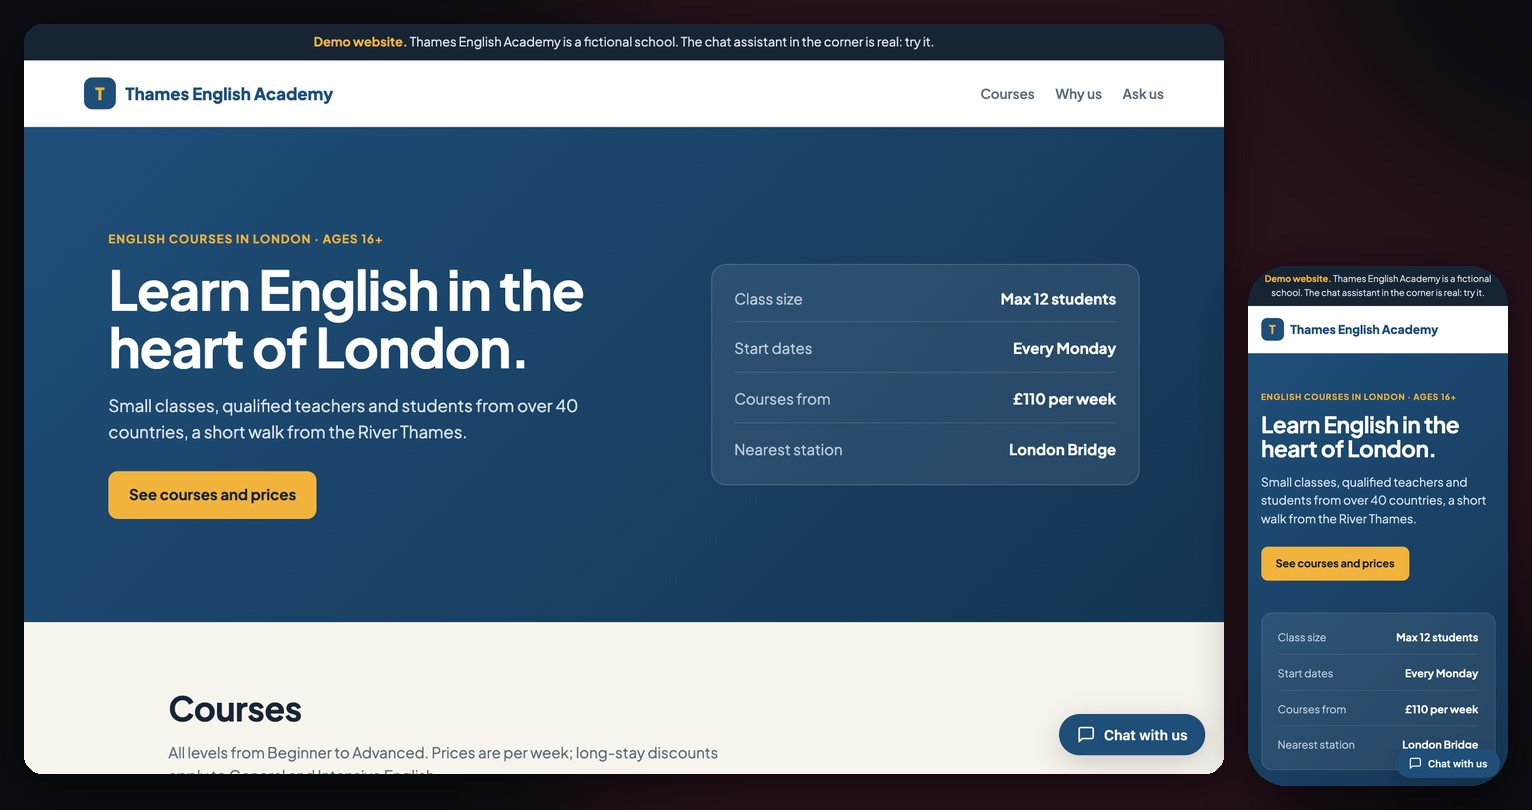
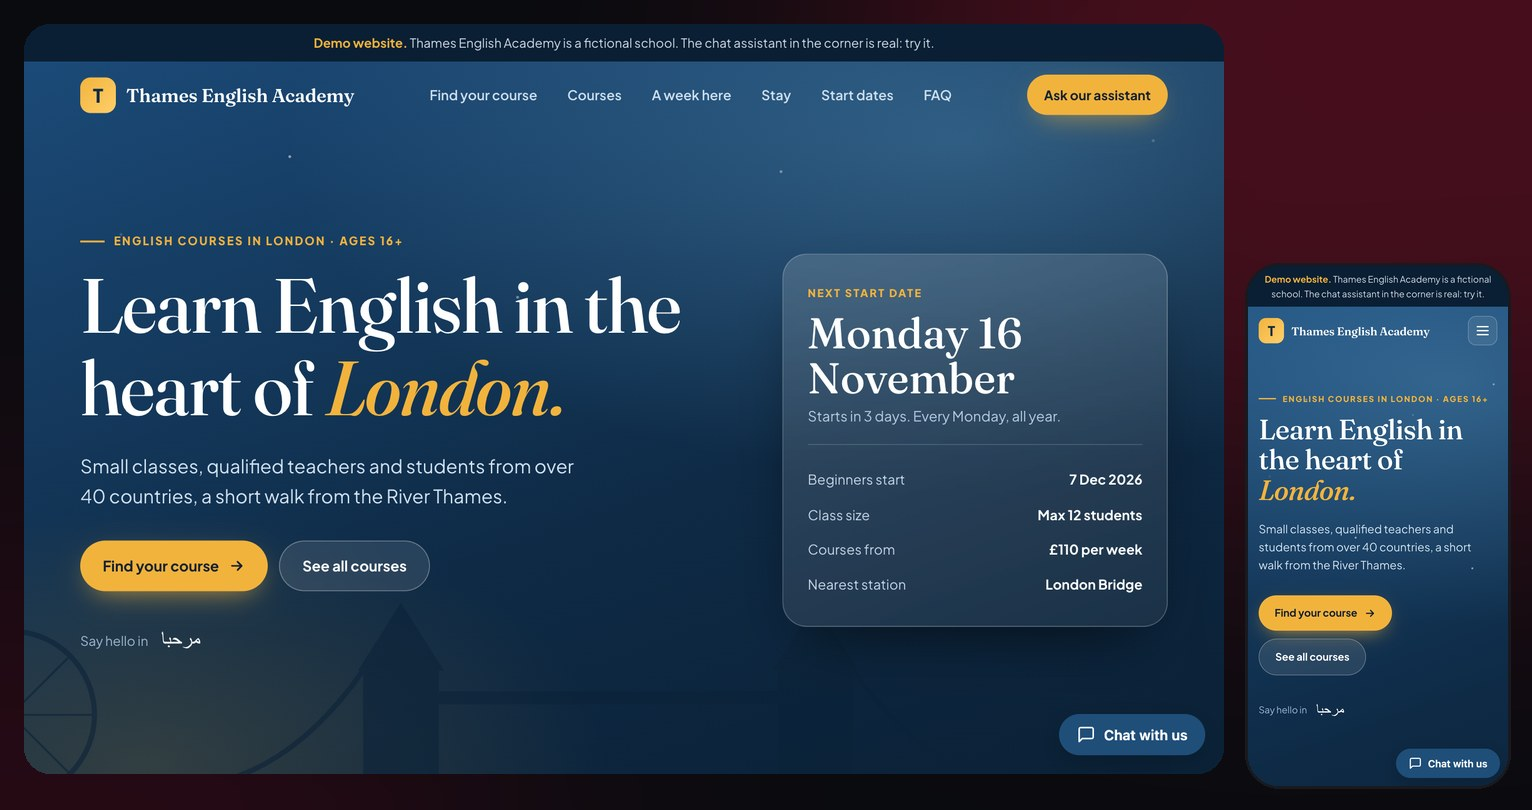
Update the Demos picture to the redesigned Thames site

diff --git a/demos.html b/demos.html
@@ -83,7 +83,7 @@
           <article class="hl-feature wide rev" data-reveal>
             <a class="hl-media" href="/demo/thames-english-academy/" aria-label="A new website with the assistant built in">
               <span class="hl-tag">Live demo</span>
-              <img src="/assets/img/demo-website.jpg" width="1532" height="810" loading="lazy" alt="A language school's website on a laptop and on a phone, designed and built by Assist Street, with the chat assistant built in." />
+              <img src="/assets/img/demo-website.jpg?v=2" width="1532" height="810" loading="lazy" alt="A language school's website on a laptop and on a phone, designed and built by Assist Street, with the chat assistant built in." />
             </a>
             <div class="hl-copy">
               <p class="eyebrow">Website + assistant</p>
